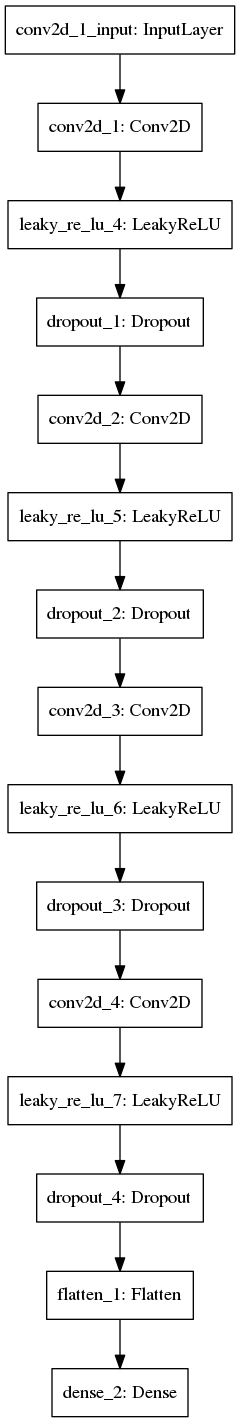
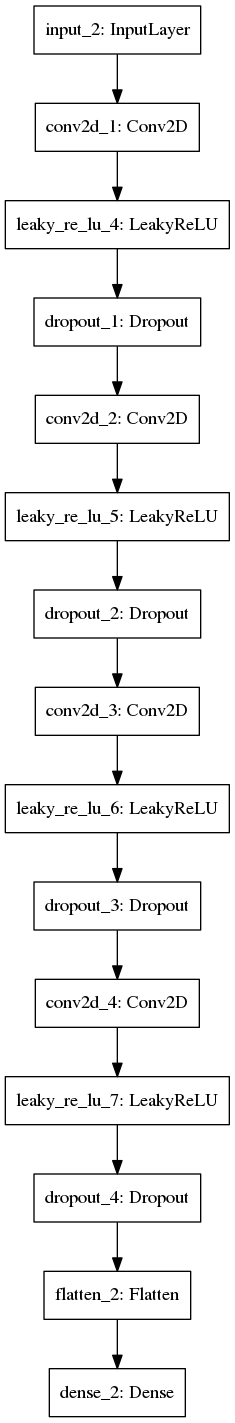
debluring dcgan

diff --git a/dcgan.py b/dcgan.py
@@ -1,5 +1,5 @@
-from keras.models import Sequential
-from keras.layers import Reshape, AveragePooling2D, Dense, Dropout, Flatten
+from keras.models import Sequential, Model
+from keras.layers import Input, Reshape, AveragePooling2D, Dense, Dropout, Flatten
 from keras.layers.core import Activation, Flatten
 from keras.layers.normalization import BatchNormalization
 from keras.layers.convolutional import Conv2D, Conv2DTranspose
@@ -16,6 +16,7 @@ import math
 import os
 from keras.utils import plot_model
 import matplotlib.pyplot as plt
+from scipy.ndimage.filters import gaussian_filter
 
 ##################################################################
 os.environ["CUDA_DEVICE_ORDER"] = "PCI_BUS_ID"   # see issue #152
@@ -23,55 +24,62 @@ os.environ["CUDA_VISIBLE_DEVICES"] = "0"
 
 os.environ['TF_CPP_MIN_LOG_LEVEL']='2'
 
+
 def generator_model():
-    model = Sequential()
+    inputs = Input(shape=(28,28,1))
+    x = Flatten()(inputs)
 
-    model.add(Dense(3 * 3 * 384, input_dim=100, kernel_initializer=initializers.RandomNormal(stddev=0.02)))
-    model.add(BatchNormalization())
-    model.add(LeakyReLU(0.2))
-    model.add(Reshape((3, 3, 384)))
+    x = Dense(3*3*384,kernel_initializer=initializers.RandomNormal(stddev=0.02))(x)
+    x = BatchNormalization()(x)
+    x = LeakyReLU(0.2)(x)
+    x = Reshape((3,3,384))(x)
 
-    model.add(Conv2DTranspose(192, 5, strides=1, padding='valid'))
-    model.add(BatchNormalization(axis=-1))
-    model.add(LeakyReLU(0.2))
+    x = Conv2DTranspose(192,5,strides=1,padding='valid')(x)
+    x = BatchNormalization(axis=-1)(x)
+    x = LeakyReLU(0.2)(x)
 
-    model.add(Conv2DTranspose(96, 5, strides=2, padding='same'))
-    model.add(BatchNormalization(axis=-1))
-    model.add(LeakyReLU(0.2))
+    x = Conv2DTranspose(96, 5, strides=2, padding='same')(x)
+    x = BatchNormalization(axis=-1)(x)
+    x = LeakyReLU(0.2)(x)
 
-    model.add(Conv2DTranspose(1, 5, strides=2, padding='same',activation='tanh'))
-    return model
+    x = Conv2DTranspose(1, 5, strides=2, padding='same',activation='tanh')(x)
+    return Model(inputs,x)
 
 def discriminator_model():
-    model = Sequential()
+    inputs = Input(shape=(28,28,1))
 
-    model.add(Conv2D(32, (3, 3),padding='same',strides=2,input_shape=(28, 28, 1)))
-    model.add(LeakyReLU(0.2))
-    model.add(Dropout(0.3))
+    x = Conv2D(32, (3, 3),padding='same',strides=2)(inputs)
+    x = LeakyReLU(0.2)(x)
+    x = Dropout(0.3)(x)
 
-    model.add(Conv2D(64,3,padding='same', strides=1))
-    model.add(LeakyReLU(0.2))
-    model.add(Dropout(0.3))
+    x = Conv2D(64,3,padding='same', strides=1)(x)
+    x = LeakyReLU(0.2)(x)
+    x = Dropout(0.3)(x)
 
-    model.add(Conv2D(128,3,padding='same', strides=2))
-    model.add(LeakyReLU(0.2))
-    model.add(Dropout(0.3))
+    x = Conv2D(128,3,padding='same', strides=2)(x)
+    x = LeakyReLU(0.2)(x)
+    x = Dropout(0.3)(x)
 
-    model.add(Conv2D(256,3,padding='same', strides=1))
-    model.add(LeakyReLU(0.2))
-    model.add(Dropout(0.3))
+    x = Conv2D(256,3,padding='same', strides=1)(x)
+    x = LeakyReLU(0.2)(x)
+    x = Dropout(0.3)(x)
 
-    model.add(Flatten())
-    model.add(Dense(1, activation='sigmoid'))
-    return model
+    x = Flatten()(x)
+    x = Dense(1, activation='sigmoid')(x)
+    return Model(inputs,x)
 
 
 def generator_containing_discriminator(g, d):
-    model = Sequential()
-    model.add(g)
+    inputs = Input((28,28,1))
+    generated = g(inputs)
     d.trainable = False
-    model.add(d)
-    return model
+    discriminated = d(generated)
+    return Model(inputs,[generated,discriminated])
+    # model = Sequential()
+    # model.add(g)
+    # d.trainable = False
+    # model.add(d)
+    # return model
 
 
 def combine_images(generated_images):
@@ -107,28 +115,56 @@ def train(BATCH_SIZE):
     # saving results to
     model_dir = './models'
     if not os.path.exists(model_dir):
-        os.mkdir(model_dir)
+        os.mkdir(model_dir)     
     val_dir = './vals'
     if not os.path.exists(val_dir):
         os.mkdir(val_dir)
     log_dir = './logs'
     if not os.path.exists(log_dir):
         os.mkdir(log_dir)
+    test_dir = './tests'
+    if not os.path.exists(test_dir):
+        os.mkdir(test_dir)
 
     nepoch = 200
 
     (X_train, y_train), (X_test, y_test) = mnist.load_data()
 
+    # put some blur
+    rand_sig = np.random.uniform(2,8,size=(X_train.shape[0]))
+    X_train_no = [x.astype(np.float32)+gaussian_filter(x,rand_sig[i]) for i,x in enumerate(X_train)]
+    X_train_no = np.array(X_train_no)
+    X_train_no = np.round(np.clip(X_train_no,0,255))
+
+    rand_sig = np.random.uniform(2,8,size=(X_test.shape[0]))
+    X_test_no = [x.astype(np.float32)+gaussian_filter(x,rand_sig[i]) for i,x in enumerate(X_test)]
+    X_test_no = np.array(X_test_no)
+    X_test_no = np.round(np.clip(X_test_no,0,255))
+
     # ganhacks 1: normalize inputs
     X_train = (X_train.astype(np.float32) - 127.5)/127.5
     X_train = np.expand_dims(X_train, axis=-1)
+
+    X_train_no = (X_train_no.astype(np.float32) - 127.5)/127.5
+    X_train_no = np.expand_dims(X_train_no, axis=-1)
+
+    X_test = (X_test.astype(np.float32) - 127.5)/127.5
+    X_test = np.expand_dims(X_test, axis=-1)
+
+    X_test_no = (X_test_no.astype(np.float32) - 127.5)/127.5
+    X_test_no = np.expand_dims(X_test_no, axis=-1)
+
+    # ensure unpaired
+    X_train_no1 = X_train_no[np.random.permutation(X_train_no.shape[0])]
+    X_train_no2 = X_train_no[np.random.permutation(X_train_no.shape[0])]
 
     lr = 2e-4
 
     # generator
     g = generator_model()
     g_optim = Adam(lr=lr, beta_1=0.5)
-    g.compile(loss='binary_crossentropy', optimizer=g_optim)
+    # g.compile(loss='binary_crossentropy', optimizer=g_optim)
+    g.compile(loss='mae', optimizer=g_optim)
 
     # discriminator
     d = discriminator_model()
@@ -136,14 +172,14 @@ def train(BATCH_SIZE):
     # gan: g+d
     gan_optim = Adam(lr=lr, beta_1=0.5)
     gan = generator_containing_discriminator(g, d)
-    gan.compile(loss='binary_crossentropy', optimizer=gan_optim)
+    gan.compile(loss=['mae','binary_crossentropy'], optimizer=gan_optim)
 
     # discriminator compile
     d_optim = Adam(lr=lr, beta_1=0.5)
     d.trainable = True
     d.compile(loss='binary_crossentropy', optimizer=d_optim)
 
-
+    
     # model summary
     with open(model_dir + '/discriminator.txt','w') as fh:
     	d.summary(print_fn=lambda x: fh.write(x + '\n'))
@@ -165,25 +201,25 @@ def train(BATCH_SIZE):
 
         for index in range(num_batches):
 
-            # ganhacks 3: sample from Gaussian
-            noise = 0.5 * np.random.normal(0, 1, size=[BATCH_SIZE, 100])
-            image_batch = X_train[index*BATCH_SIZE:(index+1)*BATCH_SIZE]
-
-            # generage fake mnist images
-            generated_images = g.predict(noise, verbose=0)
+            image_no = X_train_no1[index*BATCH_SIZE:(index+1)*BATCH_SIZE]
+            image_clean = X_train[index*BATCH_SIZE:(index+1)*BATCH_SIZE]
+            
+            # generate fake/denoised mnist images
+            generated_images = g.predict(image_no, verbose=0)
 
             # train discriminator
-            X = np.concatenate((image_batch, generated_images))
+            X = np.concatenate((image_clean, generated_images))
             yD = [0.9] * BATCH_SIZE + [0.] * BATCH_SIZE          # hard label
             # yD += 0.05 * np.random.normal(size=(2*BATCH_SIZE,))
             d_loss = d.train_on_batch(X, yD)
-
+            
             # train generator
-            noise = 0.5 * np.random.normal(0, 1, size=[BATCH_SIZE, 100])
+            image_no = X_train_no2[index*BATCH_SIZE:(index+1)*BATCH_SIZE]
             d.trainable = False
-            yG = [1.] * BATCH_SIZE
+            yG = np.ones((BATCH_SIZE,))
             # yG += 0.05 * np.random.normal(size=(BATCH_SIZE,))
-            g_loss = gan.train_on_batch(noise, yG)
+            # g_loss = gan.train_on_batch(image_no, yG)
+            g_loss = gan.train_on_batch(image_no, [image_no,yG])
             d.trainable = True
 
             d_losses.append(d_loss)
@@ -193,8 +229,8 @@ def train(BATCH_SIZE):
 
         d_losses_epoch.append(np.mean(d_losses))
         g_losses_epoch.append(np.mean(g_losses))
-        print("Epoch {:03d}/{:03d} - d_loss: {} -  g_loss: {}".format(epoch, nepoch, d_losses_epoch[-1], g_losses_epoch[-1]))
-
+        print("Epoch {:03d}/{:03d} - d_loss: {:5f} -  g_loss: {:5f}".format(epoch, nepoch, d_losses_epoch[-1], g_losses_epoch[-1]))
+        
         # plot losses
         loss_file_name = log_dir + '/epoch-{:03d}.png'.format(epoch)
         plot([x for x in range(1,epoch+1)],d_losses_epoch,g_losses_epoch,
@@ -205,10 +241,30 @@ def train(BATCH_SIZE):
         d.save_weights(model_dir+'/discriminator.h5', True)
 
         # save results from training
-        image = combine_images(generated_images)
+        image = np.concatenate((combine_images(image_no),combine_images(generated_images)),axis=1)
         image = image*127.5+127.5
         Image.fromarray(image.astype(np.uint8)).save(
             val_dir+"/epoch-{:03d}.png".format(epoch))
+
+        # testing
+        rand_p = np.random.permutation(X_test.shape[0])
+        X_test, X_test_no, y_test  = X_test[rand_p], X_test_no[rand_p], y_test[rand_p]
+        img_test = np.zeros((100,28,28,1))
+        img_gt = np.zeros((100,28,28,1))
+        for y in range(10):
+    		y_idx = np.where(y_test==y)
+    		img_test[y*10:(y+1)*10,:,:,:] = X_test_no[y_idx[0][:10]]
+    		img_gt[y*10:(y+1)*10,:,:,:] = X_test[y_idx[0][:10]]
+		img_result = g.predict(img_test, verbose=0)
+
+		image = np.concatenate((combine_images(img_test),
+								np.ones((280,10)),
+		                        combine_images(img_result),
+								np.ones((280,10)),
+		                        combine_images(img_gt)),axis=1)
+		image = image*127.5+127.5
+        Image.fromarray(image.astype(np.uint8)).save(
+            test_dir+"/epoch-{:03d}.png".format(epoch))
 
 
 def generate(BATCH_SIZE, nice=False):
